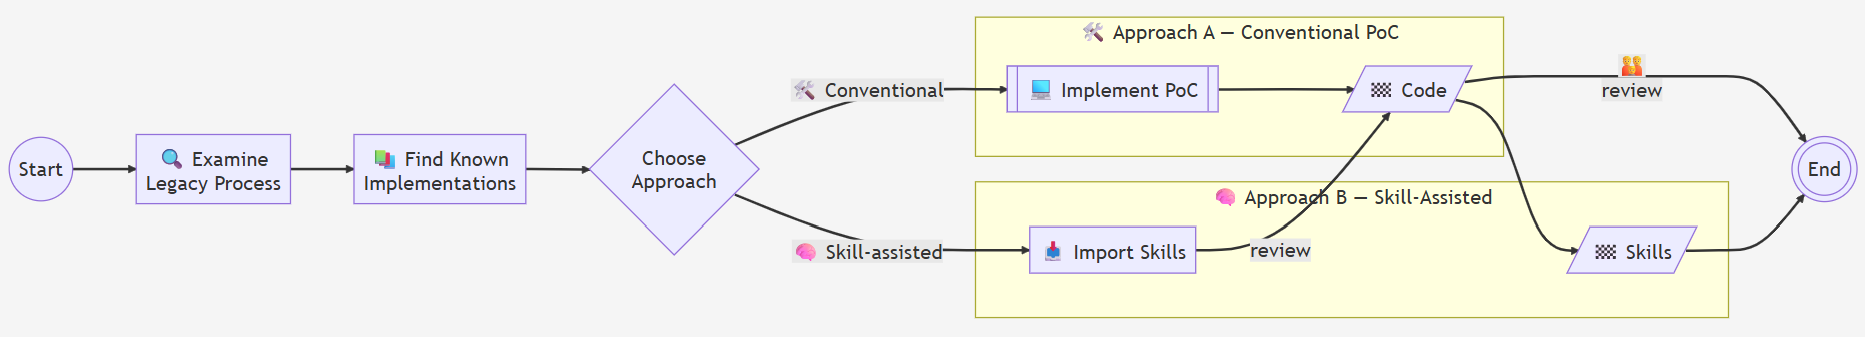
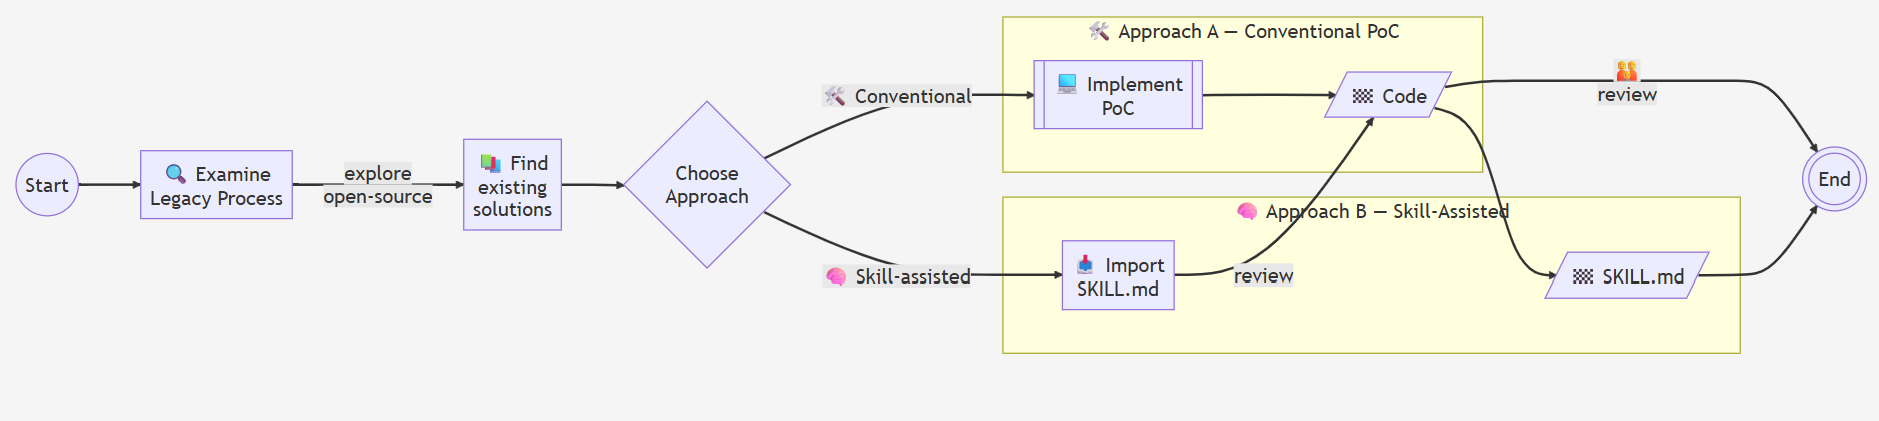
intermediate revision - minor updates to README

diff --git a/basic-argocd/README.md b/basic-argocd/README.md
@@ -1014,56 +1014,27 @@ That interpretation is consistent with the history, although it would be too str
 
 
 ### ArgoCD on Kind
-> NOTE: on __Ubuntu__ __18.04__ go is very old
+
+#### Install Recent Go
+> NOTE: on __Ubuntu__ __18.04__ / __22.04__  Go is very old. But it is always a good practice to avoid "latest" Go.
 
 ```sh
-apt-get remove golang-go]
+apt-get remove golang-go
 ``` 
 
 ```
-VERSION='1.14.1'
+VERSION='1.16.1'
 wget https://dl.google.com/go/go${VERSION}.linux-amd64.tar.gz
-
 sudo rm -rf /usr/local/go && sudo tar -C /usr/local -xzf go${VERSION}.linux-amd64.tar.gz
 ```
+#### Install Pinned Kind
 
-export GO111MODULE=on
-```
-```
-go install sigs.k8s.io/kind@v0.33.0 
-```
-```
-can't load package: package sigs.k8s.io/kind@v0.33.0: 
-can only use path@version syntax with 'go get'
-```
 ```sh
 export GOROOT=/usr/local/go
 export GOPATH=$HOME/go
 export PATH=$PATH:$GOROOT/bin:$GOPATH/bin
 export GO111MODULE=on
 ```
-
-```
-go get sigs.k8s.io/kind@v0.33.0 
-```
-```txt
-go: downloading sigs.k8s.io/kind v0.33.0
-go: downloading al.essio.dev/pkg/shellescape v1.5.1
-go: downloading github.com/spf13/pflag v1.0.5
-go: downloading github.com/pkg/errors v0.9.1
-go: downloading github.com/mattn/go-isatty v0.0.20
-go: downloading github.com/spf13/cobra v1.8.0
-go: downloading github.com/pelletier/go-toml v1.9.5
-go: downloading github.com/evanphx/json-patch/v5 v5.6.0
-go: downloading go.yaml.in/yaml/v3 v3.0.4
-go: downloading github.com/BurntSushi/toml v1.4.0
-go: downloading golang.org/x/sys v0.6.0
-go: downloading sigs.k8s.io/yaml v1.4.0
-go: downloading github.com/inconshreveable/mousetrap v1.1.0
-../../../go/pkg/mod/github.com/!burnt!sushi/toml@v1.4.0/decode.go:9:2: package io/fs is not in GOROOT (/usr/local/go/src/io/fs)
-```
-update to `16.1` but `module requires Go 1.18`
-
 ```sh
 go install sigs.k8s.io/kind@v0.22.0 
 ```
@@ -1079,7 +1050,6 @@ go: downloading sigs.k8s.io/yaml v1.3.0
 go: downloading golang.org/x/sys v0.0.0-20210630005230-0f9fa26af87c
 go: downloading github.com/google/safetext v0.0.0-20220905092116-b49f7bc46da2
 go: downloading gopkg.in/yaml.v2 v2.4.0
-
 ```
 
 ```sh
@@ -1088,7 +1058,39 @@ kind version
 ```text
 kind v0.22.0 go1.16.1 linux/amd64
 ```
+
+> NOTE: cannot install latest versions of kind with older Go:
+> ```
+> go install sigs.k8s.io/kind@v0.33.0 
+> ```
+> ```text
+> can't load package: package sigs.k8s.io/kind@v0.33.0: 
+> can only use path@version syntax with 'go get'
+> ```
+> 
+> ```sh
+> go get sigs.k8s.io/kind@v0.33.0 
+> ```
+> ```txt
+> go: downloading sigs.k8s.io/kind v0.33.0
+> go: downloading al.essio.dev/pkg/shellescape v1.5.1
+> go: downloading github.com/spf13/pflag v1.0.5
+> go: downloading github.com/pkg/errors v0.9.1
+> go: downloading github.com/mattn/go-isatty v0.0.20
+> go: downloading github.com/spf13/cobra v1.8.0
+> go: downloading github.com/pelletier/go-toml v1.9.5
+> go: downloading github.com/evanphx/json-patch/v5 v5.6.0
+> go: downloading go.yaml.in/yaml/v3 v3.0.4
+> go: downloading github.com/BurntSushi/toml v1.4.0
+> go: downloading golang.org/x/sys v0.6.0
+> go: downloading sigs.k8s.io/yaml v1.4.0
+> go: downloading github.com/inconshreveable/mousetrap v1.1.0
+> ../../../go/pkg/mod/github.com/!burnt!sushi/toml@v1.4.0/decode.go:9:2: package io/fs is not in GOROOT (/usr/local/go/src/io/fs)
+> ```
+> can update to go `16.1` but `module requires Go 1.18`
+
 #### Create a Kind Cluster
+
 ```sh
 cat <<EOF > kind-config.yaml
 kind: Cluster
@@ -1102,7 +1104,6 @@ nodes:
 EOF
 ```
 
-* Create the cluster using the configuration
 ```sh
 kind create cluster --name argocd-cluster --config kind-config.yaml
 ```
@@ -1121,12 +1122,27 @@ You can now use your cluster with:
 kubectl cluster-info --context kind-argocd-cluster
 
 Have a nice day! 👋
+```
 
+#### Install Kubectl on Development Node
+
+```sh
+curl -LO "https://dl.k8s.io/release/$(curl -L -s https://dl.k8s.io/release/stable.txt)/bin/linux/amd64/kubectl"
+chmod +x ./kubectl
+sudo mv ./kubectl /usr/local/bin/kubectl
+```
+```sh
+kubectl version --client
+```
+```text
+Client Version: v1.37.1
+Kustomize Version: v5.8.1
 ```
 
 ```sh
-docker image ls
+kubectl cluster-info --context kind-argocd-cluster
 ```
+
 ```text
 NAME                                              TYPE        CLUSTER-IP       EXTERNAL-IP   PORT(S)                      AGE
 service/argocd-applicationset-controller          ClusterIP   10.101.152.106   <none>        7000/TCP,8080/TCP            4m13s
@@ -1153,17 +1169,11 @@ replicaset.apps/argocd-dex-server-55cdd54ccb                  1         1       
 replicaset.apps/argocd-notifications-controller-7765c495c7    1         1         1       4m12s
 replicaset.apps/argocd-redis-5d849fc6db                       1         1         1       4m12s
 replicaset.apps/argocd-repo-server-5477d857fc                 1         1         1       4m12s
-
-
 ```
 
-```sh
-kubectl cluster-info --context kind-argocd-cluster
-```
 ```text
 Kubernetes control plane is running at https://127.0.0.1:36977
 CoreDNS is running at https://127.0.0.1:36977/api/v1/namespaces/kube-system/services/kube-dns:dns/proxy
-
 ```
 
 ```sh
@@ -1176,7 +1186,6 @@ namespace/argocd created
 kubectl apply -n argocd --server-side --force-conflicts -f https://raw.githubusercontent.com/argoproj/argo-cd/stable/manifests/install.yaml
 ```
 ```text
-
 customresourcedefinition.apiextensions.k8s.io/applications.argoproj.io serverside-applied
 customresourcedefinition.apiextensions.k8s.io/applicationsets.argoproj.io serverside-applied
 customresourcedefinition.apiextensions.k8s.io/appprojects.argoproj.io serverside-applied

diff --git a/basic-skill-registry/README.md b/basic-skill-registry/README.md
@@ -1646,19 +1646,21 @@ N3 --> N1
 ```code
 flowchart LR
 
+flowchart LR
+
     S(("Start")) --> A["🔍 Examine<br/>Legacy Process"]
-    A --> B["📚 Find Known<br/>Implementations"]
+    A --"explore<br/>open‑source"--> B["📚 Find<br/>existing<br/>solutions"]
     B --> C{"Choose<br/>Approach"}
 
     subgraph POC["🛠 Approach A — Conventional PoC"]
-        P1[["💻 Implement PoC"]]
+        P1[["💻 Implement<br/>PoC"]]
         P2[/"🏁 Code"/]
         P1 --> P2
     end
 
     subgraph SKILLS["🧠 Approach B — Skill-Assisted"]
-        K1["📥 Import Skills"]
-         K3[/"🏁  Skills"/]
+        K1["📥 Import<br/>SKILL.md"]
+         K3[/"🏁 SKILL.md"/]
         K1 --"review"--> P2 --> K3
     end
 
@@ -1673,18 +1675,18 @@ flowchart LR
 flowchart LR
 
     S(("Start")) --> A["🔍 Examine<br/>Legacy Process"]
-    A --> B["📚 Find Known<br/>Implementations"]
+    A --"explore<br/>open‑source"--> B["📚 Find<br/>existing<br/>solutions"]
     B --> C{"Choose<br/>Approach"}
 
     subgraph POC["🛠 Approach A — Conventional PoC"]
-        P1[["💻 Implement PoC"]]
+        P1[["💻 Implement<br/>PoC"]]
         P2[/"🏁 Code"/]
         P1 --> P2
     end
 
     subgraph SKILLS["🧠 Approach B — Skill-Assisted"]
-        K1["📥 Import Skills"]
-         K3[/"🏁  Skills"/]
+        K1["📥 Import<br/>SKILL.md"]
+         K3[/"🏁 SKILL.md"/]
         K1 --"review"--> P2 --> K3
     end
 
